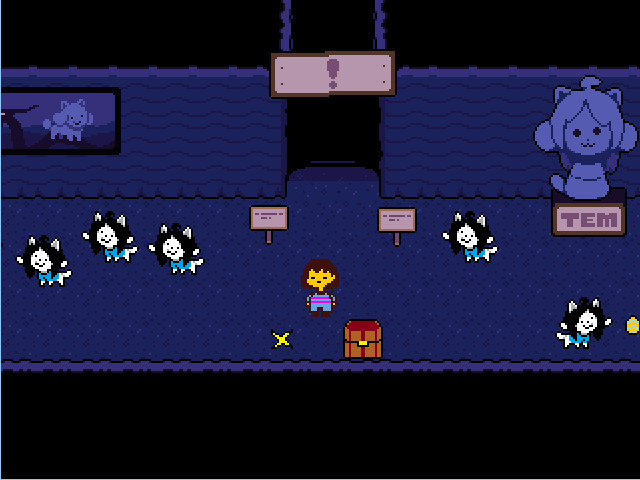
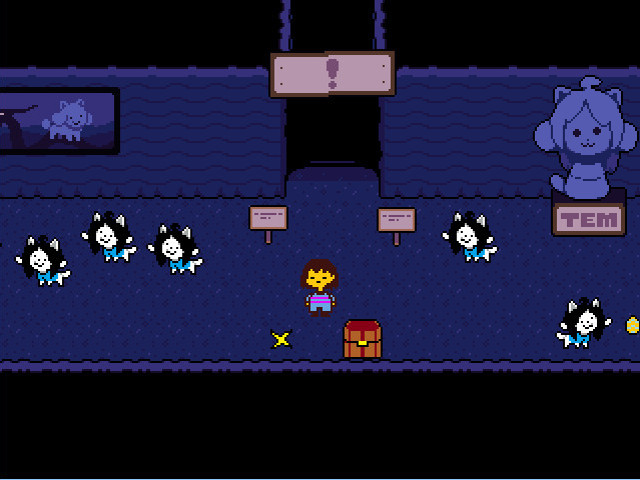
Remove left border, related to #19
- Add a 2px border on pixmpas.

diff --git a/cwidgets/SaveDetails.cpp b/cwidgets/SaveDetails.cpp
@@ -99,8 +99,7 @@ void SaveDetails::createInterface()
     mGameKillLab->setText("  KILLS:");
     mDetCloseBut->setText("CLOSE");
 
-    mRoomPixLab->setStyleSheet("border: 1px solid #8ec8fa;"
-                               "border-left:none;");
+    mRoomPixLab->setStyleSheet("border: 2px solid #496;");
 }
 void SaveDetails::createSettings()
 {
